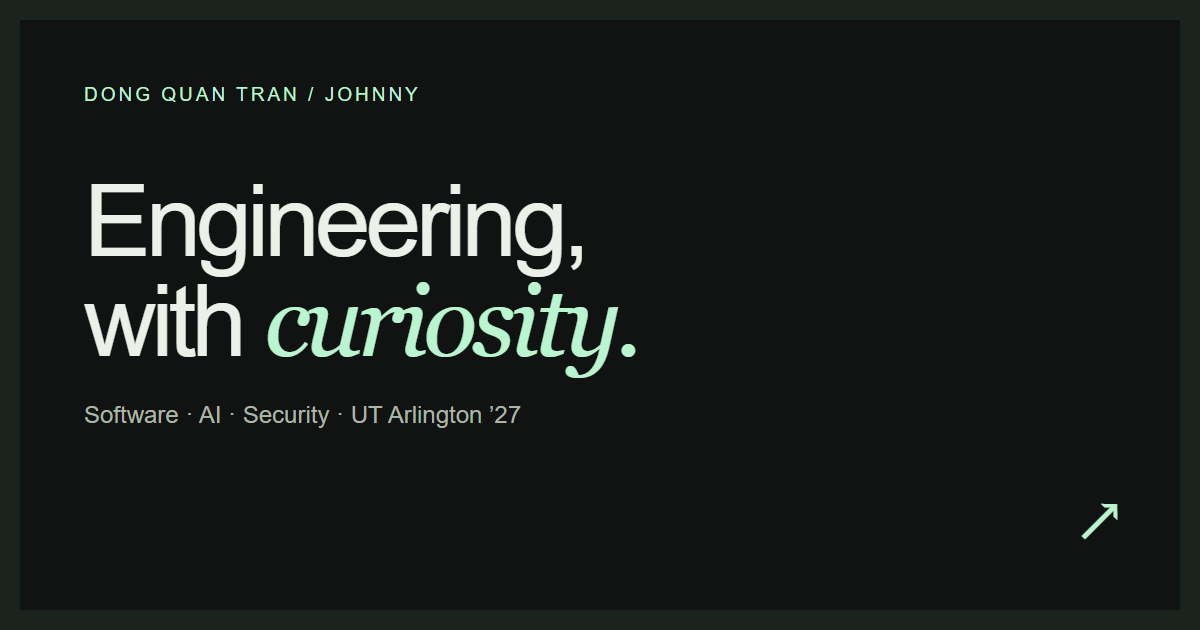
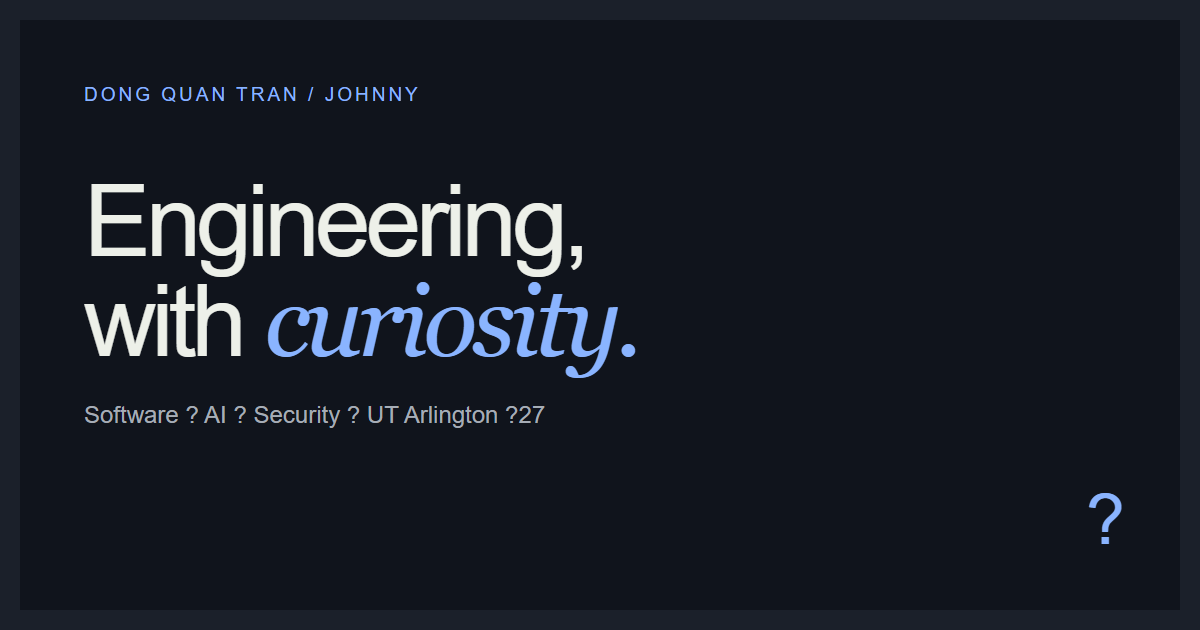
Refresh portfolio with soft blue and slate palette

diff --git a/styles.css b/styles.css
@@ -1,15 +1,15 @@
 @import url('https://fonts.googleapis.com/css2?family=DM+Sans:wght@400;450;500;550;600;650;700;750&family=IBM+Plex+Mono:wght@400;500&display=swap');
 
-:root{--bg:#101312;--surface:#171b19;--text:#edf0e9;--muted:#9da69e;--accent:#b9f5ce;--line:#2c332e;--mono:'IBM Plex Mono',monospace;--font:'DM Sans',Arial,sans-serif;color-scheme:dark}
-*{box-sizing:border-box}html{scroll-behavior:smooth;scroll-padding-top:100px}body{margin:0;background:var(--bg);color:var(--text);font-family:var(--font);font-size:16px;line-height:1.6;-webkit-font-smoothing:antialiased}body:has(dialog[open]){overflow:hidden}button,input{font:inherit}button,a{-webkit-tap-highlight-color:transparent}button{color:inherit;cursor:pointer}a{color:inherit;text-decoration:none}button:focus-visible,a:focus-visible,input:focus-visible,summary:focus-visible{outline:2px solid var(--accent);outline-offset:6px}button{border:0}h1,h2,h3,h4,p{margin:0}h1,h2,h3,h4{font-weight:500;line-height:1.08}::selection{background:var(--accent);color:var(--bg)}.wrap{max-width:1280px;margin-inline:auto;padding-inline:48px}.mono,.eyebrow{font-family:var(--mono)}.eyebrow{font-size:11px;letter-spacing:1.5px;line-height:1.6}.accent{color:var(--accent)}.muted{color:var(--muted)}.italic{font-family:Georgia,'Times New Roman',serif;font-style:italic;font-weight:400;letter-spacing:-.055em}.status-dot{display:inline-block;width:6px;height:6px;margin-right:8px;background:var(--accent);border-radius:50%;box-shadow:0 0 14px #b9f5ce30}.skip-link{position:fixed;top:-70px;left:15px;z-index:10;background:var(--accent);color:var(--bg);padding:12px}.skip-link:focus{top:10px}.sr-only{position:absolute;width:1px;height:1px;padding:0;margin:-1px;overflow:hidden;clip:rect(0,0,0,0);white-space:nowrap;border:0}
-.site-header{max-width:1440px;margin:auto;padding:25px 48px;display:flex;align-items:center;justify-content:space-between;border-bottom:1px solid var(--line);gap:24px}.brand{display:flex;align-items:center;gap:13px;font-size:17px;font-weight:600;letter-spacing:-.6px}.monogram{width:36px;height:36px;background:var(--accent);border-radius:9px;color:var(--bg);font-size:25px;font-weight:750;line-height:34px;padding-left:5px;letter-spacing:-3px;position:relative}.monogram span{position:absolute;font-size:13px;top:-5px;right:5px}.brand-dot{color:var(--accent)}nav{display:flex;gap:30px;font-size:13px;color:#c0c6bf}nav a{transition:color .2s}nav a:hover,.text-link:hover{color:var(--accent)}.header-contact{font-size:13px;border:1px solid #515b50;border-radius:30px;padding:8px 17px}.header-contact span{margin-left:10px}.header-contact:hover{background:var(--accent);color:var(--bg)}
-.hero{padding-top:84px;display:grid;grid-template-columns:1.15fr 1fr;gap:50px;position:relative}.hero-copy{padding-top:27px}.hero h1{font-size:clamp(55px,6.3vw,84px);letter-spacing:-5px;line-height:1.04;margin-top:27px;margin-bottom:26px}.hero-description{max-width:400px;color:#aeb7af;font-size:16px;line-height:1.8}.hero-actions{display:flex;align-items:center;gap:30px;margin-top:32px}.button{display:inline-flex;gap:30px;align-items:center;padding:13px 22px;border-radius:5px;font-size:13px;font-weight:600}.primary{background:var(--accent);color:#152018;transition:background .2s,transform .2s}.primary:hover{background:#d4ffdf;transform:translateY(-2px)}.text-link{font-size:13px;display:inline-flex;align-items:center;gap:16px}.hero-footnote{font-size:11px;color:var(--muted);margin-top:40px}.tiny-cross{color:var(--accent);margin-right:9px}.separator{margin-inline:12px;color:#576259}.hero-bottom{grid-column:1/-1;display:flex;align-items:center;justify-content:space-between;font-family:var(--mono);font-size:9px;letter-spacing:1.5px;color:#838f84;padding-block:18px 27px;border-bottom:1px solid var(--line);margin-top:17px}.hero-bottom>span:nth-child(2){font-size:20px;margin-right:auto;margin-left:18px}
-.signal-lab{background:linear-gradient(140deg,#1b231e,#151a17 70%);border:1px solid #343e34;border-radius:9px;overflow:hidden;box-shadow:0 30px 100px #0002;transform:none;align-self:start}.lab-top{padding:17px 20px;display:flex;justify-content:space-between;font-family:var(--mono);font-size:9px;letter-spacing:1.3px;color:#c3cfc2}.lab-top>.mono{color:#737f73}.lab-tabs{display:flex;padding:0 12px;border-block:1px solid #303a30;background:#11161255}.lab-tabs button{background:none;flex:1;padding:12px 3px;font-family:var(--mono);font-size:10px;color:#8d998c;position:relative}.lab-tabs button.active{color:var(--accent)}.lab-tabs button.active:after{content:'';position:absolute;bottom:-1px;left:20%;width:60%;height:2px;background:var(--accent)}.lab-stage{min-height:371px;position:relative;background-image:radial-gradient(#9da69e20 .7px,transparent .7px);background-size:16px 16px;overflow:hidden}.signal-orbit{height:250px;position:relative;margin-top:-5px;isolation:isolate}.orbit{position:absolute;border:1px solid #8eae7e25;border-radius:50%;left:50%;top:52%;transform:translate(-50%,-50%)}.orbit-one{width:120px;height:120px}.orbit-two{width:190px;height:190px}.orbit-three{width:260px;height:260px;border-style:dashed}.orbit-axis{position:absolute;background:#8eae7e16}.horizontal{height:1px;left:5%;right:5%;top:52%}.vertical{width:1px;top:0;bottom:0;left:50%}.orbit-core{position:absolute;left:50%;top:52%;transform:translate(-50%,-50%);height:76px;width:76px;border:1px solid #b9f5ce99;background:#26392b;border-radius:22px;display:flex;align-items:center;justify-content:center;font-size:49px;letter-spacing:-7px;padding-right:7px;font-weight:700;box-shadow:0 0 60px #b9f5ce15}.orbit-core span{font-size:10px;color:var(--accent);position:absolute;top:4px;right:12px;letter-spacing:0}.orbit-node{position:absolute;width:8px;height:8px;border-radius:50%;background:var(--accent);box-shadow:0 0 20px #b9f5ce66}.node-a{left:calc(50% + 67px);top:57px}.node-b{left:calc(50% - 90px);top:164px;background:#f0c889}.node-c{left:calc(50% + 121px);top:156px;width:5px;height:5px}.orbit-label{position:absolute;font-family:var(--mono);font-size:9px;color:#a9b3a4;background:#19201b;padding:0 5px;letter-spacing:.5px}.label-a{left:calc(50% + 77px);top:49px}.label-b{left:calc(50% - 166px);top:160px}.label-c{left:calc(50% + 130px);top:153px}.signal-wave{position:absolute;left:0;top:70px;width:100%;height:120px;z-index:-1;opacity:.15}.signal-wave path{fill:none;stroke:var(--accent);stroke-width:1.5;stroke-dasharray:850;animation:wave 8s linear infinite}.lab-caption{position:relative;text-align:center;margin-top:-19px;padding-bottom:25px}.lab-caption>.mono{font-size:8px;letter-spacing:2px}.lab-caption h2{font-size:29px;letter-spacing:-1px;margin:7px 0 9px}.lab-caption p{font-size:10px;color:var(--muted)}.lab-bottom{border-top:1px solid #303a30;display:flex;justify-content:space-between;padding:11px 16px;font-size:9px;color:#98a491}.lab-query,.lab-market{padding:27px 25px;min-height:371px}.lab-query h2,.lab-market h2{font-size:24px;margin:7px 0 20px;letter-spacing:-.7px}.demo-select{width:100%;border:1px solid #435040;background:#202b22;color:var(--text);padding:11px 10px;border-radius:4px;font-size:12px;margin:0 0 14px}.demo-code{font-family:var(--mono);font-size:11px;white-space:pre-wrap;color:var(--accent);min-height:74px}.demo-table{width:100%;border-collapse:collapse;font-size:11px;margin-top:16px}.demo-table th{text-align:left;color:var(--muted);font-weight:400}.demo-table th,.demo-table td{border-bottom:1px solid var(--line);padding:7px}.demo-table td:last-child{text-align:right;color:var(--accent)}.replay-button{background:#b9f5ce16;border:1px solid #b9f5ce66;border-radius:4px;color:var(--accent);padding:7px 13px;margin-top:17px;font-size:11px}.demo-note{font-size:10px;color:var(--muted);margin-top:12px}.market-event{font-family:var(--mono);font-size:10px;color:#d9c399;margin-top:14px;min-height:18px}@keyframes wave{0%{stroke-dashoffset:850}100%{stroke-dashoffset:0}}
-.section{padding-top:98px;padding-bottom:85px}.section-heading{display:flex;justify-content:space-between;align-items:flex-end;margin-bottom:40px;gap:24px}.section-heading .eyebrow{color:var(--accent);margin-bottom:20px}.section-heading h2{font-size:53px;letter-spacing:-2px}.section-heading>p{font-size:13px;color:var(--muted);line-height:1.8;padding-bottom:4px}.project-grid{display:grid;grid-template-columns:1fr 1fr;gap:44px 26px}.project-card{min-width:0}.project-art{height:290px;width:100%;display:block;text-align:left;background:#19221f;border:1px solid #344238;border-radius:7px;padding:21px 25px;position:relative;overflow:hidden;transition:transform .25s,border-color .25s}.project-art:hover{transform:translateY(-4px);border-color:#b9f5ce88}.art-toolbar{display:flex;align-items:center;gap:8px;font-family:var(--mono);font-size:11px;letter-spacing:.7px}.mini-logo{font-weight:600;color:var(--accent);font-size:21px}.art-tag{margin-left:auto;font-size:7px;color:#9eafa0;border:1px solid #435044;border-radius:3px;padding:4px 6px;letter-spacing:.5px}.url-field{display:flex;justify-content:space-between;gap:10px;font-family:var(--mono);font-size:10px;background:#101713;border:1px solid #3b493c;border-radius:5px;padding:12px;margin-top:23px;color:#becabc}.url-field>span{color:#8b9b89}.risk-layout{display:flex;gap:28px;align-items:center;margin-top:24px}.risk-ring{width:94px;height:94px;border-radius:50%;border:6px solid #d3b378;border-right-color:#3e4436;transform:rotate(-35deg);display:grid;place-items:center;flex-shrink:0}.risk-ring>span{transform:rotate(35deg);font-family:var(--mono);font-size:16px;color:#ebcd96;text-align:center}.risk-ring small{display:block;font-size:7px;color:#abb6a6}.signal-list{display:grid;gap:10px;font-size:9px;color:#bac8b9}.signal-list i{width:5px;height:5px;border-radius:50%;display:inline-block;margin-right:7px}.amber-dot{background:#d3b378}.mint-dot{background:var(--accent)}.art-footer{position:absolute;left:25px;right:25px;bottom:13px;display:flex;justify-content:space-between;font-family:var(--mono);font-size:7px;letter-spacing:1px;color:#95a28e}.infer .project-art{background:#211f2a;border-color:#3d364c}.lavender{color:#bfaff7}.infer .art-tag{border-color:#494253;color:#b5a9c7}.query-prompt{margin-top:20px;padding:10px 13px;font-size:10px;border:1px solid #484054;background:#302939;border-radius:5px;color:#d6c9e7}.code-preview{font:11px/1.85 var(--mono);padding:15px 10px}.code-purple{color:#b7a4e7}.code-mint{color:var(--accent)}.query-status{display:flex;gap:15px;font:8px var(--mono);color:#acbfac}.query-status>span:last-child{margin-left:auto;color:#d0c2ed}.book .project-art{background:#24221a;border-color:#464132}.amber{color:#e7ca85}.order-labels{display:flex;justify-content:space-between;font:8px var(--mono);color:#b0a78e;margin-top:25px;margin-bottom:10px}.order-book{display:grid;gap:7px}.order-book>div{display:grid;grid-template-columns:1fr 54px 1fr;align-items:center;gap:12px;height:20px}.order-book i,.order-book b{display:block;height:16px;transition:width .4s}.order-book i{background:linear-gradient(90deg,#b9f5ce18,#b9f5ce55);width:var(--bid);margin-left:auto;border-right:2px solid #b9f5ce}.order-book b{background:linear-gradient(90deg,#dfa88b55,#dfa88b18);width:var(--ask);border-left:2px solid #dfa88b}.order-book>div>span{font:10px var(--mono);color:#d9cfb9;text-align:center}.due .project-art{background:#27201e;border-color:#473b35}.coral{color:#e8b097}.mail-snippet{margin-top:20px;border-left:2px solid #c9987e;padding-left:14px}.mail-snippet>span{font:7px var(--mono);color:#c2a58c;letter-spacing:1px}.mail-snippet p{font-size:14px;line-height:1.5;margin-top:5px;color:#e0cfc5}mark{background:#dab09325;color:#f1c7a7;padding:0 3px}.deadline-arrow{color:#ba9e8b;font:14px var(--mono);padding:7px 0}.deadline-arrow span{font-size:8px;margin-left:10px}.deadline-card{display:flex;align-items:center;gap:12px;background:#332b26;border:1px solid #59483b;border-radius:5px;padding:12px}.calendar-icon{font:7px var(--mono);color:#e8bd98;text-align:center}.calendar-icon strong{display:block;font-size:19px;line-height:1.2}.deadline-card>div{display:flex;flex-direction:column;gap:3px}.deadline-card>div strong{font-size:10px;font-weight:500}.deadline-card>div span{font-size:8px;color:#bea995}.review-pill{margin-left:auto;background:#d3ab8b20;border:1px solid #9b775b;border-radius:4px;font-size:8px;padding:3px 9px;color:#e3c6ad}.project-copy{padding:18px 2px 0}.project-meta{display:flex;justify-content:space-between;font:8px var(--mono);color:var(--muted);letter-spacing:1.2px}.project-copy h3{font-size:28px;letter-spacing:-1px;margin-top:12px}.project-copy h3 button{display:flex;justify-content:space-between;align-items:center;width:100%;background:transparent;text-align:left;font:inherit;letter-spacing:inherit;padding:0}.project-copy h3 span{font-size:24px;font-weight:400;color:var(--muted);transition:transform .2s}.project-copy h3 button:hover span{transform:translate(3px,-3px);color:var(--accent)}.project-copy>p{font-size:13px;color:var(--muted);margin-top:10px}.tags{display:flex;flex-wrap:wrap;gap:7px;margin-top:15px}.tags>span{font:9px var(--mono);padding:4px 8px;border:1px solid var(--line);border-radius:3px;color:#b1bbb0}.more-work{border-block:1px solid var(--line);margin-top:46px}.more-work summary{cursor:pointer;display:flex;justify-content:space-between;align-items:center;gap:15px;padding:22px 0;font-size:14px;list-style:none}.more-work summary::-webkit-details-marker{display:none}.more-work summary>.mono{font-size:9px;color:var(--muted)}.expand-icon{font-size:19px;color:var(--accent);margin-left:25px;display:inline-block;transition:transform .2s}.more-work[open] .expand-icon{transform:rotate(45deg)}.more-grid{display:grid;grid-template-columns:1fr 1fr;gap:24px;padding:12px 0 28px}.more-grid a{padding:16px;border:1px solid var(--line);border-radius:4px}.more-grid a:hover{border-color:#7d927e}.more-grid h3{font-size:18px}.more-grid p{font-size:12px;color:var(--muted);margin:10px 0}.more-grid a>span{font:8px var(--mono);color:var(--accent)}
-.research-section{background:#171c18;border-block:1px solid var(--line);padding:85px 0}.research-feature{display:grid;grid-template-columns:1fr 1fr;gap:64px;margin-top:55px}.research-label{font:9px var(--mono);letter-spacing:1px;color:#bdc6ad}.research-copy h3{font-size:32px;letter-spacing:-1px;line-height:1.2;margin:16px 0}.research-copy>p{font-size:14px;color:var(--muted);max-width:420px;line-height:1.9}.research-timeline{margin-top:27px;display:grid}.research-timeline>a{display:flex;align-items:center;gap:16px;padding:15px 0;border-bottom:1px solid #323b31}.research-timeline>a>span{font:10px var(--mono);color:var(--accent);border:1px solid #45513e;border-radius:50%;width:29px;height:29px;display:grid;place-items:center}.research-timeline>a>div{display:grid;gap:3px}.research-timeline strong{font-size:13px;font-weight:500}.research-timeline small{font-size:10px;color:var(--muted)}.research-timeline b{margin-left:auto;font-weight:400;color:var(--muted)}.research-timeline a:hover b{color:var(--accent)}.research-chart{background:#111713;border:1px solid #384335;border-radius:6px;padding:25px 28px}.chart-heading{display:flex;justify-content:space-between;align-items:center;gap:10px;font-size:8px;letter-spacing:.4px;color:#b1bbaa}.data-badge{border-radius:3px;background:#b9f5ce12;padding:4px 6px;color:var(--accent);font-size:8px}.research-chart h4{font-size:20px;letter-spacing:-.5px;margin:23px 0 10px}.research-chart>p{font-size:11px;color:var(--muted)}.research-bars{display:grid;gap:15px;margin:25px 0}.research-bar{display:grid;grid-template-columns:49px 1fr 40px;gap:9px;align-items:center;font:10px var(--mono)}.bar-track{height:18px;background:#283026;position:relative}.bar-track:after{position:absolute;content:'';left:50%;top:0;bottom:0;border-left:1px dashed #aab99a77}.bar-fill{height:100%;width:var(--value);background:var(--bar-color);transition:width .35s}.bar-value{text-align:right;color:#cbd4c1}.slider-heading{display:flex;align-items:center;justify-content:space-between;font-size:10px;color:#b1bbaa}.slider-heading output{font:12px var(--mono);color:var(--accent)}input[type=range]{width:100%;accent-color:var(--accent);height:18px;cursor:pointer;margin:8px 0 0}.range-labels{display:flex;justify-content:space-between;padding:0 5px;font:8px var(--mono);color:#87927f}.research-chart .chart-note{font-size:9px;line-height:1.7;margin-top:20px}.research-chart>.text-link{font-size:10px;color:#cbdcbf;margin-top:15px}.learning-note{margin-top:40px;border-top:1px solid #384335;padding-top:30px;display:flex;align-items:center;gap:25px}.note-icon{color:var(--accent);font-size:30px}.learning-note .eyebrow{font-size:8px;color:#aabb9c}.learning-note h3{font-size:20px;margin:8px 0}.learning-note p{font-size:12px;color:var(--muted);max-width:650px}.note-arrow{margin-left:auto;font-size:25px;color:var(--accent)}
-.play-grid{display:grid;grid-template-columns:repeat(3,1fr);gap:24px}.play-card{border:1px solid var(--line);border-radius:6px;overflow:hidden;transition:transform .25s,border-color .25s}.play-card:hover{transform:translateY(-5px);border-color:#657361}.play-art{height:210px;position:relative;overflow:hidden}.chess .play-art{background-color:#292324;background-image:conic-gradient(#352d2e 25%,transparent 0 50%,#352d2e 0 75%,transparent 0);background-size:60px 60px}.chess-piece{font-size:140px;position:absolute;left:calc(50% - 56px);top:-20px;color:#d8b6a8;filter:drop-shadow(10px 12px 0 #161210);transform:rotate(-10deg)}.chess-small{position:absolute;font-size:80px;right:25px;bottom:8px;color:#d4ba90;filter:drop-shadow(5px 8px 0 #161210);transform:rotate(12deg)}.play-sticker{position:absolute;bottom:19px;left:14px;background:#d8c4aa;color:#26211b;font:7px var(--mono);padding:5px 9px;letter-spacing:1px;transform:rotate(-5deg)}.blink .play-art{background:#222c26;display:grid;place-items:center}.blink svg{width:80%;height:140px;fill:none;stroke:#c0d5a6;stroke-width:2}.blink svg circle{fill:#c0d5a6}.morse{position:absolute;bottom:18px;font:15px var(--mono);letter-spacing:2px;color:#99b487}.rift .play-art{background:linear-gradient(135deg,#272636,#1c2431)}.rift .play-art:before{content:'';position:absolute;inset:0;background-image:linear-gradient(#8b9bb01c 1px,transparent 1px),linear-gradient(90deg,#8b9bb01c 1px,transparent 1px);background-size:32px 32px;transform:perspective(180px) rotateX(38deg) scale(1.7);transform-origin:bottom}.portal{width:68px;height:124px;border:3px solid;border-radius:50%;position:absolute;top:23px;transform:rotate(20deg)}.portal-one{left:49px;color:#bba0e1;box-shadow:0 0 25px #bba0e133,inset 0 0 18px #bba0e133}.portal-two{right:38px;top:51px;color:#9bcfda;box-shadow:0 0 25px #9bcfda33,inset 0 0 18px #9bcfda33}.crosshair{position:absolute;left:50%;top:40%;color:#d7dced66}.rift .play-sticker{background:#c1c2da;font-size:7px;transform:rotate(3deg)}.play-copy{padding:21px 20px 24px}.play-copy .eyebrow{font-size:7px;letter-spacing:1px;color:var(--muted)}.play-copy h3{font-size:24px;letter-spacing:-.6px;margin:13px 0}.play-copy h3>span{float:right;font-size:20px;color:var(--muted)}.play-copy p{font-size:12px;color:var(--muted);line-height:1.8}
-.about-section{padding-block:25px 95px;display:grid;grid-template-columns:1fr 1.25fr;gap:100px;align-items:center}.about-mark{height:280px;background:#b8c4a7;color:#202b22;border-radius:5px;position:relative;overflow:hidden;display:flex;align-items:center;justify-content:center;letter-spacing:-30px;font-size:230px;font-weight:650;line-height:1;padding-right:30px}.about-mark:before{content:'';position:absolute;inset:14px;border:1px solid #202b2240}.about-mark small{position:absolute;left:28px;bottom:23px;font:8px/1.6 var(--mono);letter-spacing:1.5px}.about-mark i{position:absolute;right:25px;top:23px;font-size:40px;font-style:normal;letter-spacing:0}.about-mark>span:nth-child(2){transform:translateY(-8px)}.about-copy>.eyebrow{color:var(--accent);font-size:9px}.about-copy h2{font-size:42px;letter-spacing:-1.8px;margin:20px 0}.about-copy p:not(.eyebrow){font-size:14px;color:var(--muted);line-height:1.9;margin-top:12px}.about-links{display:flex;gap:26px;margin-top:24px}.contact-section{padding-block:64px 66px;border-top:1px solid var(--line)}.contact-section h2{font-size:clamp(60px,7vw,94px);letter-spacing:-4px;margin:24px 0 30px;position:relative;line-height:1.02}.contact-section h2>a{position:absolute;right:10px;top:30px;border:1px solid #596653;border-radius:50%;width:95px;height:95px;display:grid;place-items:center;font-size:50px;font-weight:400;transition:background .2s,color .2s}.contact-section h2>a:hover{background:var(--accent);color:var(--bg)}.contact-bottom{display:flex;align-items:center;gap:22px;font-size:13px;color:#c1cbbd;flex-wrap:wrap}.copy-button{background:none;color:var(--muted);font-size:10px;padding:6px 0;border-bottom:1px solid #454e40}.copy-button>span{margin-left:7px}footer{display:flex;align-items:center;justify-content:space-between;gap:18px;padding-block:22px;border-top:1px solid var(--line);font-size:10px;color:#8e998a}footer>span:nth-child(2){font:7px var(--mono);letter-spacing:1px}footer a{color:#b8c5b0}
-dialog{background:#191f1a;color:var(--text);border:1px solid #53624e;border-radius:10px;max-width:740px;width:calc(100% - 32px);max-height:85vh;padding:28px 36px;box-shadow:0 30px 120px #0009}dialog::backdrop{background:#080c09d9;backdrop-filter:blur(7px)}.dialog-top{display:flex;align-items:center;justify-content:space-between;margin-bottom:28px}.dialog-top .eyebrow{color:var(--accent);font-size:9px}#close-dialog{font-size:19px;background:#2d372d;border-radius:50%;width:34px;height:34px}dialog h2{font-size:43px;letter-spacing:-1.5px}dialog .dialog-lede{font-size:16px;color:#c9d3c3;margin:16px 0 25px}dialog h3{font-size:15px;color:var(--accent);margin:24px 0 9px}dialog p{font-size:13px;line-height:1.85;color:var(--muted)}.dialog-flow{font:11px/1.8 var(--mono);background:#111712;border:1px solid #3a4935;padding:17px;margin:20px 0;color:#c8dabc;border-radius:5px}.dialog-links{display:flex;gap:22px;align-items:center;margin-top:26px;flex-wrap:wrap}.dialog-source{font-size:10px!important;border-top:1px solid var(--line);padding-top:18px;margin-top:23px}.noscript-note{padding:20px;text-align:center;font-size:13px;background:#283124}.noscript-note a{text-decoration:underline}
+:root{--bg:#10141c;--surface:#17191b;--text:#e9ecf0;--muted:#9da1a6;--accent:#8ab4ff;--line:#2c2f33;--mono:'IBM Plex Mono',monospace;--font:'DM Sans',Arial,sans-serif;color-scheme:dark}
+*{box-sizing:border-box}html{scroll-behavior:smooth;scroll-padding-top:100px}body{margin:0;background:var(--bg);color:var(--text);font-family:var(--font);font-size:16px;line-height:1.6;-webkit-font-smoothing:antialiased}body:has(dialog[open]){overflow:hidden}button,input{font:inherit}button,a{-webkit-tap-highlight-color:transparent}button{color:inherit;cursor:pointer}a{color:inherit;text-decoration:none}button:focus-visible,a:focus-visible,input:focus-visible,summary:focus-visible{outline:2px solid var(--accent);outline-offset:6px}button{border:0}h1,h2,h3,h4,p{margin:0}h1,h2,h3,h4{font-weight:500;line-height:1.08}::selection{background:var(--accent);color:var(--bg)}.wrap{max-width:1280px;margin-inline:auto;padding-inline:48px}.mono,.eyebrow{font-family:var(--mono)}.eyebrow{font-size:11px;letter-spacing:1.5px;line-height:1.6}.accent{color:var(--accent)}.muted{color:var(--muted)}.italic{font-family:Georgia,'Times New Roman',serif;font-style:italic;font-weight:400;letter-spacing:-.055em}.status-dot{display:inline-block;width:6px;height:6px;margin-right:8px;background:var(--accent);border-radius:50%;box-shadow:0 0 14px #8ab4ff30}.skip-link{position:fixed;top:-70px;left:15px;z-index:10;background:var(--accent);color:var(--bg);padding:12px}.skip-link:focus{top:10px}.sr-only{position:absolute;width:1px;height:1px;padding:0;margin:-1px;overflow:hidden;clip:rect(0,0,0,0);white-space:nowrap;border:0}
+.site-header{max-width:1440px;margin:auto;padding:25px 48px;display:flex;align-items:center;justify-content:space-between;border-bottom:1px solid var(--line);gap:24px}.brand{display:flex;align-items:center;gap:13px;font-size:17px;font-weight:600;letter-spacing:-.6px}.monogram{width:36px;height:36px;background:var(--accent);border-radius:9px;color:var(--bg);font-size:25px;font-weight:750;line-height:34px;padding-left:5px;letter-spacing:-3px;position:relative}.monogram span{position:absolute;font-size:13px;top:-5px;right:5px}.brand-dot{color:var(--accent)}nav{display:flex;gap:30px;font-size:13px;color:#bfc2c6}nav a{transition:color .2s}nav a:hover,.text-link:hover{color:var(--accent)}.header-contact{font-size:13px;border:1px solid #50555b;border-radius:30px;padding:8px 17px}.header-contact span{margin-left:10px}.header-contact:hover{background:var(--accent);color:var(--bg)}
+.hero{padding-top:84px;display:grid;grid-template-columns:1.15fr 1fr;gap:50px;position:relative}.hero-copy{padding-top:27px}.hero h1{font-size:clamp(55px,6.3vw,84px);letter-spacing:-5px;line-height:1.04;margin-top:27px;margin-bottom:26px}.hero-description{max-width:400px;color:#aeb2b7;font-size:16px;line-height:1.8}.hero-actions{display:flex;align-items:center;gap:30px;margin-top:32px}.button{display:inline-flex;gap:30px;align-items:center;padding:13px 22px;border-radius:5px;font-size:13px;font-weight:600}.primary{background:var(--accent);color:#151a20;transition:background .2s,transform .2s}.primary:hover{background:#b1ceff;transform:translateY(-2px)}.text-link{font-size:13px;display:inline-flex;align-items:center;gap:16px}.hero-footnote{font-size:11px;color:var(--muted);margin-top:40px}.tiny-cross{color:var(--accent);margin-right:9px}.separator{margin-inline:12px;color:#575c62}.hero-bottom{grid-column:1/-1;display:flex;align-items:center;justify-content:space-between;font-family:var(--mono);font-size:9px;letter-spacing:1.5px;color:#83888f;padding-block:18px 27px;border-bottom:1px solid var(--line);margin-top:17px}.hero-bottom>span:nth-child(2){font-size:20px;margin-right:auto;margin-left:18px}
+.signal-lab{background:linear-gradient(140deg,#1b1e23,#15171a 70%);border:1px solid #34383e;border-radius:9px;overflow:hidden;box-shadow:0 30px 100px #0002;transform:none;align-self:start}.lab-top{padding:17px 20px;display:flex;justify-content:space-between;font-family:var(--mono);font-size:9px;letter-spacing:1.3px;color:#c2c7cf}.lab-top>.mono{color:#73787f}.lab-tabs{display:flex;padding:0 12px;border-block:1px solid #30343a;background:#11131655}.lab-tabs button{background:none;flex:1;padding:12px 3px;font-family:var(--mono);font-size:10px;color:#8c9199;position:relative}.lab-tabs button.active{color:var(--accent)}.lab-tabs button.active:after{content:'';position:absolute;bottom:-1px;left:20%;width:60%;height:2px;background:var(--accent)}.lab-stage{min-height:371px;position:relative;background-image:radial-gradient(#9da1a620 .7px,transparent .7px);background-size:16px 16px;overflow:hidden}.signal-orbit{height:250px;position:relative;margin-top:-5px;isolation:isolate}.orbit{position:absolute;border:1px solid #7e92ae25;border-radius:50%;left:50%;top:52%;transform:translate(-50%,-50%)}.orbit-one{width:120px;height:120px}.orbit-two{width:190px;height:190px}.orbit-three{width:260px;height:260px;border-style:dashed}.orbit-axis{position:absolute;background:#7e92ae16}.horizontal{height:1px;left:5%;right:5%;top:52%}.vertical{width:1px;top:0;bottom:0;left:50%}.orbit-core{position:absolute;left:50%;top:52%;transform:translate(-50%,-50%);height:76px;width:76px;border:1px solid #8ab4ff99;background:#262e39;border-radius:22px;display:flex;align-items:center;justify-content:center;font-size:49px;letter-spacing:-7px;padding-right:7px;font-weight:700;box-shadow:0 0 60px #8ab4ff15}.orbit-core span{font-size:10px;color:var(--accent);position:absolute;top:4px;right:12px;letter-spacing:0}.orbit-node{position:absolute;width:8px;height:8px;border-radius:50%;background:var(--accent);box-shadow:0 0 20px #8ab4ff66}.node-a{left:calc(50% + 67px);top:57px}.node-b{left:calc(50% - 90px);top:164px;background:#f0c889}.node-c{left:calc(50% + 121px);top:156px;width:5px;height:5px}.orbit-label{position:absolute;font-family:var(--mono);font-size:9px;color:#a4aab3;background:#191c20;padding:0 5px;letter-spacing:.5px}.label-a{left:calc(50% + 77px);top:49px}.label-b{left:calc(50% - 166px);top:160px}.label-c{left:calc(50% + 130px);top:153px}.signal-wave{position:absolute;left:0;top:70px;width:100%;height:120px;z-index:-1;opacity:.15}.signal-wave path{fill:none;stroke:var(--accent);stroke-width:1.5;stroke-dasharray:850;animation:wave 8s linear infinite}.lab-caption{position:relative;text-align:center;margin-top:-19px;padding-bottom:25px}.lab-caption>.mono{font-size:8px;letter-spacing:2px}.lab-caption h2{font-size:29px;letter-spacing:-1px;margin:7px 0 9px}.lab-caption p{font-size:10px;color:var(--muted)}.lab-bottom{border-top:1px solid #30343a;display:flex;justify-content:space-between;padding:11px 16px;font-size:9px;color:#9199a4}.lab-query,.lab-market{padding:27px 25px;min-height:371px}.lab-query h2,.lab-market h2{font-size:24px;margin:7px 0 20px;letter-spacing:-.7px}.demo-select{width:100%;border:1px solid #404750;background:#20252b;color:var(--text);padding:11px 10px;border-radius:4px;font-size:12px;margin:0 0 14px}.demo-code{font-family:var(--mono);font-size:11px;white-space:pre-wrap;color:var(--accent);min-height:74px}.demo-table{width:100%;border-collapse:collapse;font-size:11px;margin-top:16px}.demo-table th{text-align:left;color:var(--muted);font-weight:400}.demo-table th,.demo-table td{border-bottom:1px solid var(--line);padding:7px}.demo-table td:last-child{text-align:right;color:var(--accent)}.replay-button{background:#8ab4ff16;border:1px solid #8ab4ff66;border-radius:4px;color:var(--accent);padding:7px 13px;margin-top:17px;font-size:11px}.demo-note{font-size:10px;color:var(--muted);margin-top:12px}.market-event{font-family:var(--mono);font-size:10px;color:#d9c399;margin-top:14px;min-height:18px}@keyframes wave{0%{stroke-dashoffset:850}100%{stroke-dashoffset:0}}
+.section{padding-top:98px;padding-bottom:85px}.section-heading{display:flex;justify-content:space-between;align-items:flex-end;margin-bottom:40px;gap:24px}.section-heading .eyebrow{color:var(--accent);margin-bottom:20px}.section-heading h2{font-size:53px;letter-spacing:-2px}.section-heading>p{font-size:13px;color:var(--muted);line-height:1.8;padding-bottom:4px}.project-grid{display:grid;grid-template-columns:1fr 1fr;gap:44px 26px}.project-card{min-width:0}.project-art{height:290px;width:100%;display:block;text-align:left;background:#191d22;border:1px solid #343a42;border-radius:7px;padding:21px 25px;position:relative;overflow:hidden;transition:transform .25s,border-color .25s}.project-art:hover{transform:translateY(-4px);border-color:#8ab4ff88}.art-toolbar{display:flex;align-items:center;gap:8px;font-family:var(--mono);font-size:11px;letter-spacing:.7px}.mini-logo{font-weight:600;color:var(--accent);font-size:21px}.art-tag{margin-left:auto;font-size:7px;color:#9ea5af;border:1px solid #434850;border-radius:3px;padding:4px 6px;letter-spacing:.5px}.url-field{display:flex;justify-content:space-between;gap:10px;font-family:var(--mono);font-size:10px;background:#101317;border:1px solid #3b4149;border-radius:5px;padding:12px;margin-top:23px;color:#bcc2ca}.url-field>span{color:#89909b}.risk-layout{display:flex;gap:28px;align-items:center;margin-top:24px}.risk-ring{width:94px;height:94px;border-radius:50%;border:6px solid #d3b378;border-right-color:#363c44;transform:rotate(-35deg);display:grid;place-items:center;flex-shrink:0}.risk-ring>span{transform:rotate(35deg);font-family:var(--mono);font-size:16px;color:#ebcd96;text-align:center}.risk-ring small{display:block;font-size:7px;color:#a6adb6}.signal-list{display:grid;gap:10px;font-size:9px;color:#b9bfc8}.signal-list i{width:5px;height:5px;border-radius:50%;display:inline-block;margin-right:7px}.amber-dot{background:#d3b378}.mint-dot{background:var(--accent)}.art-footer{position:absolute;left:25px;right:25px;bottom:13px;display:flex;justify-content:space-between;font-family:var(--mono);font-size:7px;letter-spacing:1px;color:#8e96a2}.infer .project-art{background:#211f2a;border-color:#3d364c}.lavender{color:#bfaff7}.infer .art-tag{border-color:#494253;color:#b5a9c7}.query-prompt{margin-top:20px;padding:10px 13px;font-size:10px;border:1px solid #484054;background:#302939;border-radius:5px;color:#d6c9e7}.code-preview{font:11px/1.85 var(--mono);padding:15px 10px}.code-purple{color:#b7a4e7}.code-mint{color:var(--accent)}.query-status{display:flex;gap:15px;font:8px var(--mono);color:#acb4bf}.query-status>span:last-child{margin-left:auto;color:#d0c2ed}.book .project-art{background:#24221a;border-color:#464132}.amber{color:#e7ca85}.order-labels{display:flex;justify-content:space-between;font:8px var(--mono);color:#b0a78e;margin-top:25px;margin-bottom:10px}.order-book{display:grid;gap:7px}.order-book>div{display:grid;grid-template-columns:1fr 54px 1fr;align-items:center;gap:12px;height:20px}.order-book i,.order-book b{display:block;height:16px;transition:width .4s}.order-book i{background:linear-gradient(90deg,#8ab4ff18,#8ab4ff55);width:var(--bid);margin-left:auto;border-right:2px solid #8ab4ff}.order-book b{background:linear-gradient(90deg,#dfa88b55,#dfa88b18);width:var(--ask);border-left:2px solid #dfa88b}.order-book>div>span{font:10px var(--mono);color:#d9cfb9;text-align:center}.due .project-art{background:#27201e;border-color:#473b35}.coral{color:#e8b097}.mail-snippet{margin-top:20px;border-left:2px solid #c9987e;padding-left:14px}.mail-snippet>span{font:7px var(--mono);color:#c2a58c;letter-spacing:1px}.mail-snippet p{font-size:14px;line-height:1.5;margin-top:5px;color:#e0cfc5}mark{background:#dab09325;color:#f1c7a7;padding:0 3px}.deadline-arrow{color:#ba9e8b;font:14px var(--mono);padding:7px 0}.deadline-arrow span{font-size:8px;margin-left:10px}.deadline-card{display:flex;align-items:center;gap:12px;background:#332b26;border:1px solid #59483b;border-radius:5px;padding:12px}.calendar-icon{font:7px var(--mono);color:#e8bd98;text-align:center}.calendar-icon strong{display:block;font-size:19px;line-height:1.2}.deadline-card>div{display:flex;flex-direction:column;gap:3px}.deadline-card>div strong{font-size:10px;font-weight:500}.deadline-card>div span{font-size:8px;color:#bea995}.review-pill{margin-left:auto;background:#d3ab8b20;border:1px solid #9b775b;border-radius:4px;font-size:8px;padding:3px 9px;color:#e3c6ad}.project-copy{padding:18px 2px 0}.project-meta{display:flex;justify-content:space-between;font:8px var(--mono);color:var(--muted);letter-spacing:1.2px}.project-copy h3{font-size:28px;letter-spacing:-1px;margin-top:12px}.project-copy h3 button{display:flex;justify-content:space-between;align-items:center;width:100%;background:transparent;text-align:left;font:inherit;letter-spacing:inherit;padding:0}.project-copy h3 span{font-size:24px;font-weight:400;color:var(--muted);transition:transform .2s}.project-copy h3 button:hover span{transform:translate(3px,-3px);color:var(--accent)}.project-copy>p{font-size:13px;color:var(--muted);margin-top:10px}.tags{display:flex;flex-wrap:wrap;gap:7px;margin-top:15px}.tags>span{font:9px var(--mono);padding:4px 8px;border:1px solid var(--line);border-radius:3px;color:#b0b5bb}.more-work{border-block:1px solid var(--line);margin-top:46px}.more-work summary{cursor:pointer;display:flex;justify-content:space-between;align-items:center;gap:15px;padding:22px 0;font-size:14px;list-style:none}.more-work summary::-webkit-details-marker{display:none}.more-work summary>.mono{font-size:9px;color:var(--muted)}.expand-icon{font-size:19px;color:var(--accent);margin-left:25px;display:inline-block;transition:transform .2s}.more-work[open] .expand-icon{transform:rotate(45deg)}.more-grid{display:grid;grid-template-columns:1fr 1fr;gap:24px;padding:12px 0 28px}.more-grid a{padding:16px;border:1px solid var(--line);border-radius:4px}.more-grid a:hover{border-color:#7d8692}.more-grid h3{font-size:18px}.more-grid p{font-size:12px;color:var(--muted);margin:10px 0}.more-grid a>span{font:8px var(--mono);color:var(--accent)}
+.research-section{background:#17191c;border-block:1px solid var(--line);padding:85px 0}.research-feature{display:grid;grid-template-columns:1fr 1fr;gap:64px;margin-top:55px}.research-label{font:9px var(--mono);letter-spacing:1px;color:#adb7c6}.research-copy h3{font-size:32px;letter-spacing:-1px;line-height:1.2;margin:16px 0}.research-copy>p{font-size:14px;color:var(--muted);max-width:420px;line-height:1.9}.research-timeline{margin-top:27px;display:grid}.research-timeline>a{display:flex;align-items:center;gap:16px;padding:15px 0;border-bottom:1px solid #31353b}.research-timeline>a>span{font:10px var(--mono);color:var(--accent);border:1px solid #3e4651;border-radius:50%;width:29px;height:29px;display:grid;place-items:center}.research-timeline>a>div{display:grid;gap:3px}.research-timeline strong{font-size:13px;font-weight:500}.research-timeline small{font-size:10px;color:var(--muted)}.research-timeline b{margin-left:auto;font-weight:400;color:var(--muted)}.research-timeline a:hover b{color:var(--accent)}.research-chart{background:#111317;border:1px solid #353b43;border-radius:6px;padding:25px 28px}.chart-heading{display:flex;justify-content:space-between;align-items:center;gap:10px;font-size:8px;letter-spacing:.4px;color:#aab1bb}.data-badge{border-radius:3px;background:#8ab4ff12;padding:4px 6px;color:var(--accent);font-size:8px}.research-chart h4{font-size:20px;letter-spacing:-.5px;margin:23px 0 10px}.research-chart>p{font-size:11px;color:var(--muted)}.research-bars{display:grid;gap:15px;margin:25px 0}.research-bar{display:grid;grid-template-columns:49px 1fr 40px;gap:9px;align-items:center;font:10px var(--mono)}.bar-track{height:18px;background:#262a30;position:relative}.bar-track:after{position:absolute;content:'';left:50%;top:0;bottom:0;border-left:1px dashed #9aa7b977}.bar-fill{height:100%;width:var(--value);background:var(--bar-color);transition:width .35s}.bar-value{text-align:right;color:#c1c9d4}.slider-heading{display:flex;align-items:center;justify-content:space-between;font-size:10px;color:#aab1bb}.slider-heading output{font:12px var(--mono);color:var(--accent)}input[type=range]{width:100%;accent-color:var(--accent);height:18px;cursor:pointer;margin:8px 0 0}.range-labels{display:flex;justify-content:space-between;padding:0 5px;font:8px var(--mono);color:#7f8792}.research-chart .chart-note{font-size:9px;line-height:1.7;margin-top:20px}.research-chart>.text-link{font-size:10px;color:#bfcbdc;margin-top:15px}.learning-note{margin-top:40px;border-top:1px solid #353b43;padding-top:30px;display:flex;align-items:center;gap:25px}.note-icon{color:var(--accent);font-size:30px}.learning-note .eyebrow{font-size:8px;color:#9ca9bb}.learning-note h3{font-size:20px;margin:8px 0}.learning-note p{font-size:12px;color:var(--muted);max-width:650px}.note-arrow{margin-left:auto;font-size:25px;color:var(--accent)}
+.play-grid{display:grid;grid-template-columns:repeat(3,1fr);gap:24px}.play-card{border:1px solid var(--line);border-radius:6px;overflow:hidden;transition:transform .25s,border-color .25s}.play-card:hover{transform:translateY(-5px);border-color:#616873}.play-art{height:210px;position:relative;overflow:hidden}.chess .play-art{background-color:#292324;background-image:conic-gradient(#352d2e 25%,transparent 0 50%,#352d2e 0 75%,transparent 0);background-size:60px 60px}.chess-piece{font-size:140px;position:absolute;left:calc(50% - 56px);top:-20px;color:#d8b6a8;filter:drop-shadow(10px 12px 0 #161210);transform:rotate(-10deg)}.chess-small{position:absolute;font-size:80px;right:25px;bottom:8px;color:#d4ba90;filter:drop-shadow(5px 8px 0 #161210);transform:rotate(12deg)}.play-sticker{position:absolute;bottom:19px;left:14px;background:#d8c4aa;color:#26211b;font:7px var(--mono);padding:5px 9px;letter-spacing:1px;transform:rotate(-5deg)}.blink .play-art{background:#22262c;display:grid;place-items:center}.blink svg{width:80%;height:140px;fill:none;stroke:#a6bad5;stroke-width:2}.blink svg circle{fill:#a6bad5}.morse{position:absolute;bottom:18px;font:15px var(--mono);letter-spacing:2px;color:#879ab4}.rift .play-art{background:linear-gradient(135deg,#272636,#1c2431)}.rift .play-art:before{content:'';position:absolute;inset:0;background-image:linear-gradient(#8b9bb01c 1px,transparent 1px),linear-gradient(90deg,#8b9bb01c 1px,transparent 1px);background-size:32px 32px;transform:perspective(180px) rotateX(38deg) scale(1.7);transform-origin:bottom}.portal{width:68px;height:124px;border:3px solid;border-radius:50%;position:absolute;top:23px;transform:rotate(20deg)}.portal-one{left:49px;color:#bba0e1;box-shadow:0 0 25px #bba0e133,inset 0 0 18px #bba0e133}.portal-two{right:38px;top:51px;color:#9bcfda;box-shadow:0 0 25px #9bcfda33,inset 0 0 18px #9bcfda33}.crosshair{position:absolute;left:50%;top:40%;color:#d7dced66}.rift .play-sticker{background:#c1c2da;font-size:7px;transform:rotate(3deg)}.play-copy{padding:21px 20px 24px}.play-copy .eyebrow{font-size:7px;letter-spacing:1px;color:var(--muted)}.play-copy h3{font-size:24px;letter-spacing:-.6px;margin:13px 0}.play-copy h3>span{float:right;font-size:20px;color:var(--muted)}.play-copy p{font-size:12px;color:var(--muted);line-height:1.8}
+.about-section{padding-block:25px 95px;display:grid;grid-template-columns:1fr 1.25fr;gap:100px;align-items:center}.about-mark{height:280px;background:#a7b9d3;color:#20252b;border-radius:5px;position:relative;overflow:hidden;display:flex;align-items:center;justify-content:center;letter-spacing:-30px;font-size:230px;font-weight:650;line-height:1;padding-right:30px}.about-mark:before{content:'';position:absolute;inset:14px;border:1px solid #20252b40}.about-mark small{position:absolute;left:28px;bottom:23px;font:8px/1.6 var(--mono);letter-spacing:1.5px}.about-mark i{position:absolute;right:25px;top:23px;font-size:40px;font-style:normal;letter-spacing:0}.about-mark>span:nth-child(2){transform:translateY(-8px)}.about-copy>.eyebrow{color:var(--accent);font-size:9px}.about-copy h2{font-size:42px;letter-spacing:-1.8px;margin:20px 0}.about-copy p:not(.eyebrow){font-size:14px;color:var(--muted);line-height:1.9;margin-top:12px}.about-links{display:flex;gap:26px;margin-top:24px}.contact-section{padding-block:64px 66px;border-top:1px solid var(--line)}.contact-section h2{font-size:clamp(60px,7vw,94px);letter-spacing:-4px;margin:24px 0 30px;position:relative;line-height:1.02}.contact-section h2>a{position:absolute;right:10px;top:30px;border:1px solid #535b66;border-radius:50%;width:95px;height:95px;display:grid;place-items:center;font-size:50px;font-weight:400;transition:background .2s,color .2s}.contact-section h2>a:hover{background:var(--accent);color:var(--bg)}.contact-bottom{display:flex;align-items:center;gap:22px;font-size:13px;color:#bdc3cb;flex-wrap:wrap}.copy-button{background:none;color:var(--muted);font-size:10px;padding:6px 0;border-bottom:1px solid #40464e}.copy-button>span{margin-left:7px}footer{display:flex;align-items:center;justify-content:space-between;gap:18px;padding-block:22px;border-top:1px solid var(--line);font-size:10px;color:#8a9099}footer>span:nth-child(2){font:7px var(--mono);letter-spacing:1px}footer a{color:#b0b9c5}
+dialog{background:#191b1f;color:var(--text);border:1px solid #4e5662;border-radius:10px;max-width:740px;width:calc(100% - 32px);max-height:85vh;padding:28px 36px;box-shadow:0 30px 120px #0009}dialog::backdrop{background:#080a0cd9;backdrop-filter:blur(7px)}.dialog-top{display:flex;align-items:center;justify-content:space-between;margin-bottom:28px}.dialog-top .eyebrow{color:var(--accent);font-size:9px}#close-dialog{font-size:19px;background:#2d3137;border-radius:50%;width:34px;height:34px}dialog h2{font-size:43px;letter-spacing:-1.5px}dialog .dialog-lede{font-size:16px;color:#c3cad3;margin:16px 0 25px}dialog h3{font-size:15px;color:var(--accent);margin:24px 0 9px}dialog p{font-size:13px;line-height:1.85;color:var(--muted)}.dialog-flow{font:11px/1.8 var(--mono);background:#111317;border:1px solid #353d49;padding:17px;margin:20px 0;color:#bcc9da;border-radius:5px}.dialog-links{display:flex;gap:22px;align-items:center;margin-top:26px;flex-wrap:wrap}.dialog-source{font-size:10px!important;border-top:1px solid var(--line);padding-top:18px;margin-top:23px}.noscript-note{padding:20px;text-align:center;font-size:13px;background:#242931}.noscript-note a{text-decoration:underline}
 .experience-strip{grid-column:1/-1;display:grid;grid-template-columns:repeat(3,1fr);gap:30px;border-top:1px solid var(--line);padding-top:26px;margin-top:-55px}.experience-strip .eyebrow{font-size:8px;color:var(--muted);letter-spacing:.6px}.experience-strip h3{font-size:15px;margin:11px 0 8px;line-height:1.4}.experience-strip p{font-size:11px;color:var(--muted)}
 @media(min-width:1500px){.hero{padding-top:110px}.hero h1{font-size:88px}}
 @media(max-width:1050px){.wrap{padding-inline:32px}.site-header{padding-inline:32px}.hero{gap:28px}.hero h1{font-size:66px;letter-spacing:-4px}.hero-description{font-size:14px}.hero-copy{padding-top:17px}.lab-tabs button{font-size:9px}.lab-stage{min-height:360px}.signal-list{font-size:8px}.risk-layout{gap:20px}.art-tag{font-size:6px}.research-feature{gap:32px}.research-chart{padding:23px 20px}.about-section{gap:55px}.play-copy{padding:20px 16px}.play-copy h3{font-size:22px}.portal-one{left:30px}.portal-two{right:25px}.hero-bottom{font-size:8px}}

diff --git a/index.html b/index.html
@@ -3,7 +3,7 @@
 <head>
   <meta charset="utf-8">
   <meta name="viewport" content="width=device-width, initial-scale=1">
-  <meta name="theme-color" content="#101312">
+  <meta name="theme-color" content="#10141c">
   <meta name="description" content="Dong Quan Tran (Johnny), computer science student at UT Arlington. Explore software, AI, security research, and playful experiments.">
   <meta property="og:title" content="Johnny Tran — Engineering, with curiosity.">
   <meta property="og:description" content="Software, AI, security research, and a few unexpected experiments. Explore the work of Dong Quan Tran.">
@@ -11,7 +11,7 @@
   <meta property="og:url" content="https://dong-quan-tran.github.io/">
   <meta property="og:image" content="https://dong-quan-tran.github.io/assets/social.png">
   <title>Johnny Tran — Engineering, with curiosity.</title>
-  <link rel="icon" href="assets/favicon.svg?v=2" type="image/svg+xml">
+  <link rel="icon" href="assets/favicon.svg?v=3" type="image/svg+xml">
   <link rel="stylesheet" href="styles.css">
   <script src="app.js" defer></script>
 </head>

diff --git a/app.js b/app.js
@@ -133,7 +133,7 @@ const research = {
   VarCNN: [0.6792242105263159,0.6383263157894737,0.6188726315789475,0.5920757894736843,0.5835305263157898],
   RF: [0.7611905263157892,0.6910705263157894,0.6424105263157893,0.6157736842105264,0.593447368421053]
 };
-const colors = ['#b9f5ce','#bccba2','#b3b5da','#d5b992'];
+const colors = ['#8ab4ff','#bccba2','#b3b5da','#d5b992'];
 const schedules = [1,3,5,7,9];
 function renderResearch(index) {
   document.querySelector('#research-bars').innerHTML = Object.entries(research).map(([model,values],i) => `<div class="research-bar"><span>${model}</span><div class="bar-track" aria-hidden="true"><div class="bar-fill" style="--value:${values[index] * 100}%;--bar-color:${colors[i]}"></div></div><span class="bar-value">${(values[index] * 100).toFixed(1)}%</span></div>`).join('');
